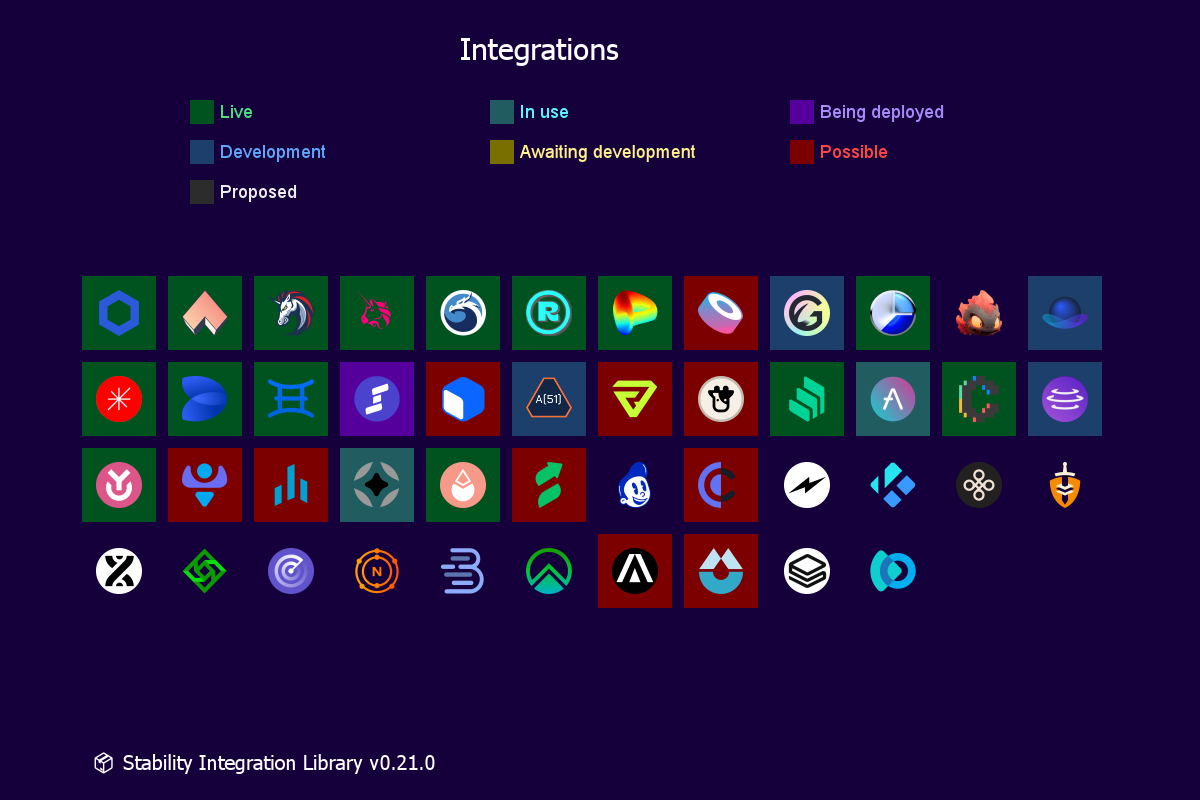
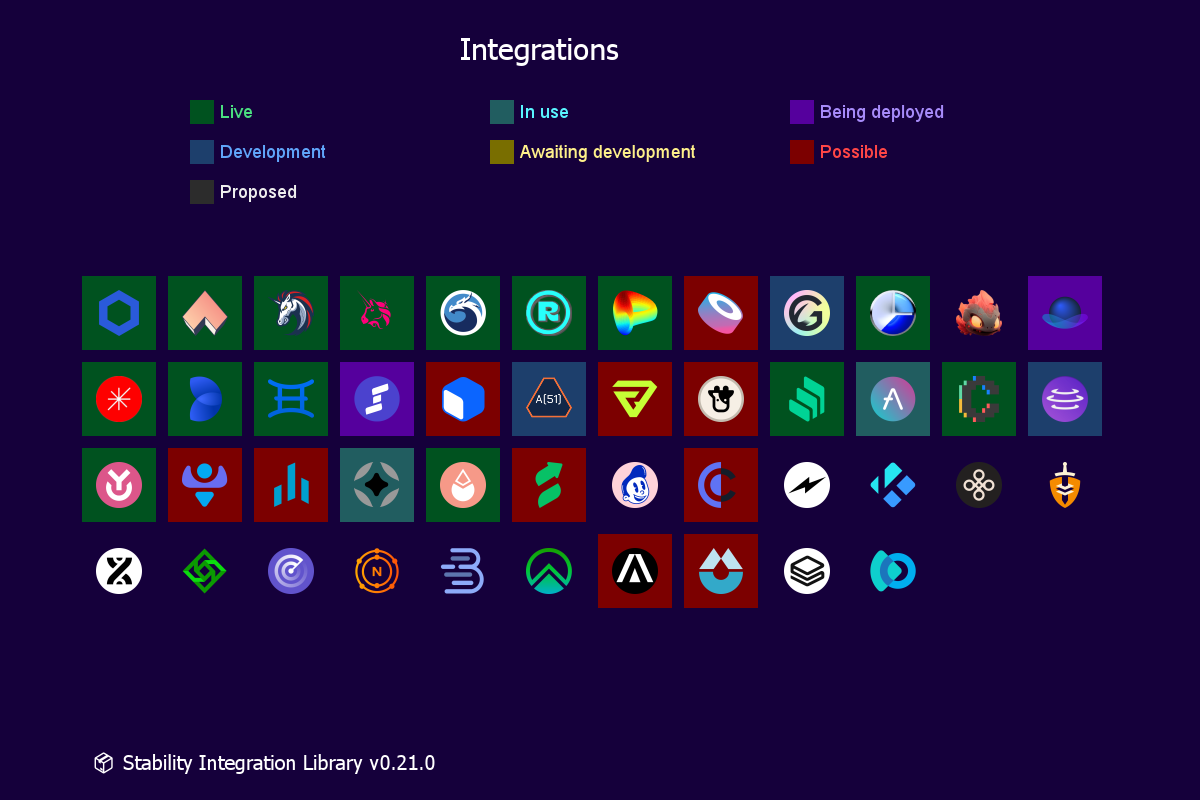
♻ Re.al and TPF are waiting to be deployed

diff --git a/src/chains.ts b/src/chains.ts
@@ -466,7 +466,7 @@ export const chains: { [chainId: string]: Chain } = {
   "111188": {
     name: ChainName.REAL,
     chainId: 111188,
-    status: ChainStatus.CHAINLIB_DEVELOPMENT,
+    status: ChainStatus.AWAITING_DEPLOYMENT,
     img: "real.png",
     multisig: "0x7B4388F4bD3A439E34a554EF67513112Bcd77Fba",
     chainLibGithubId: 173,

diff --git a/src/strategies.ts b/src/strategies.ts
@@ -315,7 +315,7 @@ export const strategies: { [shortId in StrategyShortId]: Strategy } = {
   [StrategyShortId.TPF]: {
     id: "Trident Pearl Farm",
     shortId: StrategyShortId.TPF,
-    state: StrategyState.DEVELOPMENT,
+    state: StrategyState.DEPLOYMENT,
     contractGithubId: 172,
     color: "#ffe300",
     bgColor: "#004e67",
